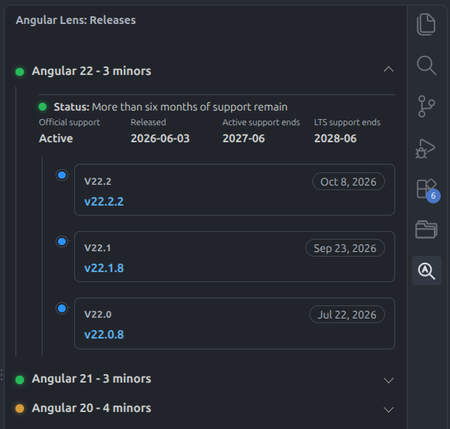
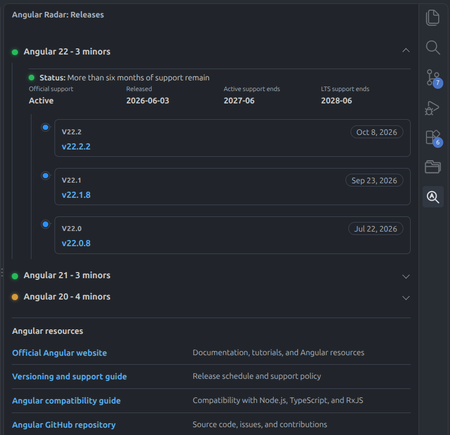
0.1.0 - Angular radar

diff --git a/src/extension.ts b/src/extension.ts
@@ -23,8 +23,8 @@ export function activate(context: vscode.ExtensionContext): void {
 		() => pageHtml
 	);
 	context.subscriptions.push(
-		vscode.window.registerWebviewViewProvider("angularLens.releases", releasesViewProvider),
-		vscode.commands.registerCommand("angularLens.openReleases", openReleasesTab)
+		vscode.window.registerWebviewViewProvider("angularRadar.releases", releasesViewProvider),
+		vscode.commands.registerCommand("angularRadar.openReleases", openReleasesTab)
 	);
 }
 
@@ -35,8 +35,8 @@ function openReleasesTab(): void {
 	}
 
 	const panel = vscode.window.createWebviewPanel(
-		"angularLens.releasesEditor",
-		"Angular Lens: Releases",
+		"angularRadar.releasesEditor",
+		"Angular Radar: Releases",
 		vscode.ViewColumn.One,
 		{ enableScripts: true }
 	);

diff --git a/src/services/angularSupportPolicyService.ts b/src/services/angularSupportPolicyService.ts
@@ -7,7 +7,7 @@ export const angularSupportPolicyUrl = "https://angular.dev/reference/releases#a
 
 export async function fetchAngularSupportInfo(): Promise<Map<number, AngularSupportInfo>> {
 	const response = await fetchHttpsText(angularSupportSourceUrl, {
-		headers: { "User-Agent": "AngularLens-VSCode-Extension" },
+		headers: { "User-Agent": "AngularRadar-VSCode-Extension" },
 		maxResponseBytes: 160 * 1024
 	});
 	if (response.statusCode !== 200) {

diff --git a/src/services/npmRegistryService.ts b/src/services/npmRegistryService.ts
@@ -20,7 +20,7 @@ export async function fetchAngularCorePackage(): Promise<NpmRegistryCorePackage>
 		headers: {
 			Accept: "application/json",
 			"Accept-Encoding": "gzip",
-			"User-Agent": "AngularLens-VSCode-Extension"
+			"User-Agent": "AngularRadar-VSCode-Extension"
 		},
 		maxResponseBytes: 8 * 1024 * 1024,
 		decompressGzip: true

diff --git a/README.md b/README.md
@@ -1,8 +1,8 @@
 <p align="center">
-	<img src="https://raw.githubusercontent.com/Hatuos/vscode-angularlens/main/media/wzang-256.png" width="220" alt="A wizard holding an Angular Lens emblem">
+	<img src="https://raw.githubusercontent.com/Hatuos/vscode-angular-radar/main/media/wzang-256.png" width="220" alt="A wizard holding an Angular Radar emblem">
 </p>
 
-<h1 align="center">Angular Lens</h1>
+<h1 align="center">Angular Radar</h1>
 
 <p align="center">
 	Browse Angular releases and support timelines from the VS Code Activity Bar.
@@ -24,10 +24,10 @@
 
 ## About
 
-Angular Lens is a lightweight VS Code extension for checking stable Angular releases without leaving your editor. It groups versions by supported major and minor release, and links each version to its official GitHub release page.
+Angular Radar is a lightweight VS Code extension for checking stable Angular releases without leaving your editor. It groups versions by supported major and minor release, and links each version to its official GitHub release page.
 
 <p align="center">
-	<img src="https://raw.githubusercontent.com/Hatuos/vscode-angularlens/main/media/pluginPreview.png" alt="Angular Lens release list">
+	<img src="https://raw.githubusercontent.com/Hatuos/vscode-angular-radar/main/media/pluginPreview.png" alt="Angular Radar release list">
 </p>
 
 ## Features
@@ -40,13 +40,13 @@ Angular Lens is a lightweight VS Code extension for checking stable Angular rele
 
 ## Getting Started
 
-Angular Lens requires VS Code 1.90 or later and an internet connection to retrieve Angular release and support information.
+Angular Radar requires VS Code 1.90 or later and an internet connection to retrieve Angular release and support information.
 
-1. Open **Angular Lens** from the Activity Bar.
+1. Open **Angular Radar** from the Activity Bar.
 2. In the **Releases** view, select **Load stable releases**.
 3. Expand a major version to browse its minor releases and support information.
 
-You can also run **Angular Lens: Open Releases** from the Command Palette to open the release list in an editor tab.
+You can also run **Angular Radar: Open Releases** from the Command Palette to open the release list in an editor tab.
 
 ## Development
 
@@ -64,6 +64,8 @@ Open the project folder in VS Code and press **F5** to launch the Extension Deve
 - Release versions and publish dates: [npm registry](https://registry.npmjs.org/@angular%2fcore)
 - Supported versions and support dates: [Angular release policy](https://angular.dev/reference/releases#actively-supported-versions)
 - Release details and notes: [Angular releases on GitHub](https://github.com/angular/angular/releases)
+
+Angular Radar fetches publicly available release and support information from these sources and presents it for convenience; it does not redistribute Angular's source code. Angular Radar is an independent project and is not affiliated with, endorsed by, or sponsored by Google or the Angular team. Angular is a trademark of Google LLC; all trademarks and source materials remain with their respective owners.
 
 ---
 
